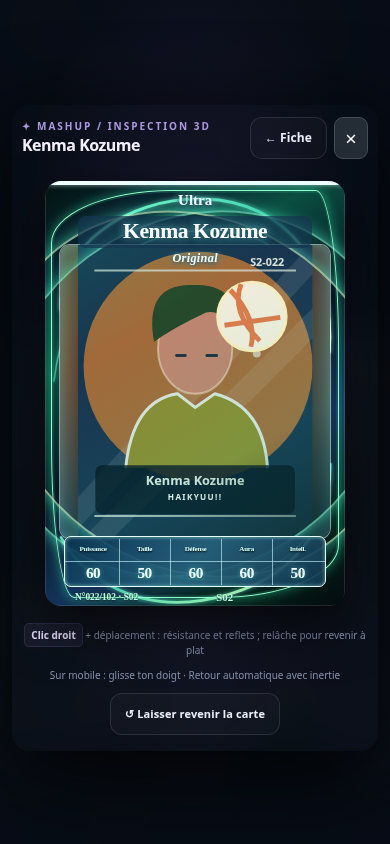
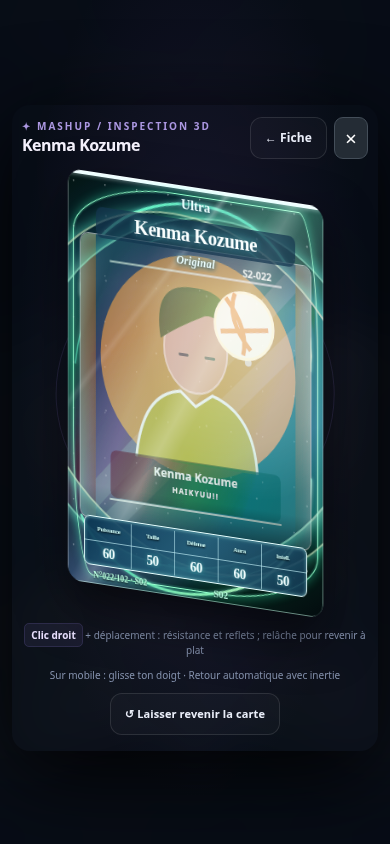
feat: enrich card shine with prismatic foil and metallic highlights

diff --git a/36-mobile-premium.css b/36-mobile-premium.css
@@ -44,3 +44,21 @@ html[data-m13-quality=eco] .tcg-card.v10-tcg .v10-foil{display:none!important}ht
 .inspect-backdrop{background:radial-gradient(ellipse at 50% 42%,#3b2a5860,transparent 64%),#070c16f5!important}.inspect-modal{border:0!important;background:transparent!important}.inspect-header{border-color:#ffffff10}.inspect-heading{font-family:inherit!important;color:#f4f1fc}.inspect-kicker{color:#ac98e2}.inspect-stage{isolation:isolate;position:relative}.inspect-stage:before{content:'';position:absolute;width:min(80%,450px);aspect-ratio:1;top:50%;left:50%;transform:translate(-50%,-50%) rotate(-25deg);border:1px solid #a28afa25;border-radius:50%;pointer-events:none;z-index:-1}.inspect-front .tcg-card .v10-foil{opacity:.3!important}.inspect-instructions{color:#8491ac}.inspect-instructions kbd{background:#a28afa14;border-color:#a28afa26}
 html[data-m13-quality=eco] .opening-fullscreen .opening-vfx-particles,html[data-m13-quality=eco] .opening-fullscreen .opening-vfx-ring{display:none!important}
 html .auth-cover{background:radial-gradient(ellipse at 50% 20%,#39284960,transparent 65%),#090d16}.auth-cover .auth-panel{background:linear-gradient(150deg,#182033,#101726);border-color:#a28afa30;box-shadow:0 30px 100px #0007;padding:34px 29px}.auth-cover .auth-logo{color:var(--m13-lime);font-size:25px;letter-spacing:-1px;display:flex;gap:11px;align-items:center}.auth-cover .auth-logo:before{content:'';display:block;width:41px;height:41px;background:url('./assets/mashup-app.svg') center/cover;border-radius:10px}.auth-cover .auth-logo{font-size:0}.auth-cover .auth-logo b{font-size:24px;letter-spacing:-1px}.auth-cover .auth-panel h2{font-family:inherit;font-size:28px;letter-spacing:-1px}.auth-cover .auth-panel p{color:#939fb8;font-size:12px;line-height:1.8}.auth-cover .auth-panel input{font-size:16px;padding:13px}.auth-cover .auth-panel .btn{min-height:49px}.auth-cover .auth-panel .auth-error{color:#ff9fba!important}.auth-cover .auth-panel a{color:#c3b2ff!important}.auth-cover .auth-panel h2:before{content:'TES CARTES. TES AMIS. TON MULTIVERS.';display:block;font-size:8px;letter-spacing:1.7px;color:#a58ee0;margin:28px 0 14px;font-weight:700}
+/* Optical finish V13.0.1. Static on grids, light follows inspection gestures. */
+.tcg-card.v10-tcg{--foil-strength:.12;--foil-saturation:1;--foil-hue:0deg;--foil-metal:#dae9f6;isolation:isolate}
+.tcg-card.v10-tcg.rare{--foil-strength:.23;--foil-metal:#a6e4ff}
+.tcg-card.v10-tcg.epic{--foil-strength:.32;--foil-metal:#d3b0ff;--foil-hue:25deg}
+.tcg-card.v10-tcg.legendary{--foil-strength:.39;--foil-metal:#ffe5a4;--foil-hue:-20deg}
+.tcg-card.v10-tcg.mythic{--foil-strength:.44;--foil-metal:#ffc3cb;--foil-hue:65deg}
+.tcg-card.v10-tcg.ultra{--foil-strength:.49;--foil-metal:#e6fcff;--foil-saturation:1.35}
+.tcg-card.v10-tcg.variant-gold{--foil-strength:.42;--foil-metal:#ffe9a7;--foil-hue:-35deg}
+.tcg-card.v10-tcg.variant-secret{--foil-strength:.48;--foil-metal:#b7ffe5;--foil-hue:95deg}
+.tcg-card.v10-tcg .v13-prismatic,.tcg-card.v10-tcg .v13-luster{position:absolute;inset:0;pointer-events:none;border-radius:inherit}
+.tcg-card.v10-tcg .v13-prismatic{z-index:6;opacity:var(--foil-strength);mix-blend-mode:color-dodge;background:repeating-linear-gradient(112deg,#91ecff12 0%,#bcb0ff8c 8%,#ffacd18c 16%,#ffe1a88c 24%,#b1ffd580 32%,#91ecff12 40%);background-size:220% 220%;background-position:var(--m13-x) var(--m13-y);filter:hue-rotate(var(--foil-hue)) saturate(var(--foil-saturation));mask-image:linear-gradient(180deg,transparent 12%,#000 26%,#000 76%,transparent 86%);-webkit-mask-image:linear-gradient(180deg,transparent 12%,#000 26%,#000 76%,transparent 86%)}
+.tcg-card.v10-tcg .v13-luster{z-index:8;opacity:.45;background:linear-gradient(128deg,transparent 18%,#ffffff08 26%,#ffffff72 27%,#ffffff08 28%,transparent 37%,transparent 63%,#ffffff30 64%,transparent 66%),radial-gradient(ellipse at var(--m13-x) var(--m13-y),#ffffff2e,transparent 48%);mix-blend-mode:screen;box-shadow:inset 1px 1px 0 #fff9,inset -1px -1px 0 var(--foil-metal);mask-image:linear-gradient(180deg,#000 3%,#0006 25%,#0006 72%,#000 96%);-webkit-mask-image:linear-gradient(180deg,#000 3%,#0006 25%,#0006 72%,#000 96%)}
+.tcg-card.v10-tcg.variant-gold .v13-prismatic{background:repeating-linear-gradient(115deg,#9b631700 0%,#f0b95b80 12%,#fff2becc 20%,#e8ae4b80 28%,#9b631700 40%);background-size:200% 200%;filter:none}
+.tcg-card.v10-tcg.ultra .v13-luster,.tcg-card.v10-tcg.variant-secret .v13-luster{background-image:radial-gradient(circle at 18% 25%,#fff 0 .5px,transparent 1.2px),radial-gradient(circle at 76% 65%,#fff 0 .6px,transparent 1.5px),linear-gradient(128deg,transparent 20%,#ffffff08 29%,#ffffff99 30%,#ffffff08 31%,transparent 40%);background-size:37px 47px,59px 67px,100% 100%}
+.tcg-card.v10-tcg.m13-card-active .v10-foil,.inspect-front .tcg-card.v10-tcg .v10-foil,.opening-top-card.revealed .tcg-card.v10-tcg .v10-foil{opacity:.5!important;background:radial-gradient(ellipse at var(--m13-x) var(--m13-y),#ffffffa0,transparent 43%),linear-gradient(120deg,transparent 28%,#fff3 45%,#fff8 49%,#fff3 53%,transparent 70%)!important}
+.inspect-front .tcg-card.v10-tcg .v13-prismatic{opacity:calc(var(--foil-strength) + .12)}
+html[data-m13-quality=eco] .tcg-card.v10-tcg .v13-prismatic{display:none}html[data-m13-quality=eco] .tcg-card.v10-tcg .v13-luster{opacity:.25;mix-blend-mode:normal;background:linear-gradient(128deg,#ffffff12,transparent 40%);box-shadow:inset 1px 1px #ffffff50}
+@media(prefers-reduced-motion:reduce){.tcg-card.v10-tcg .v13-prismatic{display:none}.tcg-card.v10-tcg .v13-luster{opacity:.25}}

diff --git a/index.html b/index.html
@@ -719,7 +719,7 @@
   <link rel="icon" href="./assets/mashup-app.svg" type="image/svg+xml">
   <link rel="apple-touch-icon" href="./assets/mashup-app-180.png">
   <link rel="manifest" href="./manifest.webmanifest">
-  <link rel="stylesheet" href="./36-mobile-premium.css?v=13.0.0">
+  <link rel="stylesheet" href="./36-mobile-premium.css?v=13.0.1">
 </head>
 <body>
   <div class="ambient ambient-a"></div><div class="ambient ambient-b"></div>
@@ -1061,7 +1061,7 @@
 import { createClient } from 'https://cdn.jsdelivr.net/npm/@supabase/supabase-js@2.76.1/+esm';
 import { createMobilePresentation, homeMarkup } from './35-mobile-premium.js?v=13.0.0';
 import { createGamesUI } from './04-games-ui.js?v=13.0.0';
-import { renderMashupV10Card } from './06-v10-cards.js?v=11.1';
+import { renderMashupV10Card } from './06-v10-cards.js?v=13.0.1';
 import { createDevelopmentJournal } from './10-development-journal.js?v=13.0.0';
 import { startMashupV12Performance } from './32-v12-performance.js?v=12.0.0';
 import { createBoosterRevealFX } from './12-booster-reveal.js?v=13.0.0';

diff --git a/06-v10-cards.js b/06-v10-cards.js
@@ -44,6 +44,6 @@ export function renderMashupV10Card(card,options={},context){
     '<div class="v10-universe" title="'+family+'">'+family+'</div>'+
     '<div class="v10-stats">'+stats+'</div>'+
     '<div class="v10-series"><span class="v10-serial">'+serial+'</span><span class="v10-series-badge">'+esc(series)+'</span></div>'+
-    '<span class="v10-special-detail" aria-hidden="true"></span><span class="v10-foil" aria-hidden="true"></span>'+
+    '<span class="v10-special-detail" aria-hidden="true"></span><span class="v13-prismatic" aria-hidden="true"></span><span class="v13-luster" aria-hidden="true"></span><span class="v10-foil" aria-hidden="true"></span>'+
     '</div>';
 }

diff --git a/docs/mobile/README.md b/docs/mobile/README.md
@@ -26,7 +26,7 @@ Voir [evidence.txt](evidence.txt).
 - Aucun débordement horizontal sur l'accueil aux largeurs 320,390,768,1440 ; collection vérifiée à 390. Aucune erreur JavaScript durant ces parcours.
 - Captures : [mobile](preview-mobile.png), [desktop](preview-desktop.png), [menu/login](preview-login.png), [inspection](preview-card.png), [booster](preview-booster.png). Données fictives, cartes publiques du catalogue de référence, aucune image de joueur.
 
-Les tests de phase 0 ont évolué explicitement : la vérification d'intégrité conserve les empreintes des fichiers inchangés et vérifie la baseline historique pour les six fichiers applicatifs modifiés ; le test de reproduction R03 est devenu un test d'acceptation du correctif. Les anciens rapports de phase 0 restent un état historique, pas une preuve de ce build.
+Les tests de phase 0 ont évolué explicitement : la vérification d'intégrité conserve les empreintes des fichiers inchangés et vérifie la baseline historique pour les fichiers applicatifs modifiés ; le test de reproduction R03 est devenu un test d'acceptation du correctif. Les anciens rapports de phase 0 restent un état historique, pas une preuve de ce build.
 
 ## Rejouer
 
@@ -45,3 +45,9 @@ Chromium est attendu à /usr/bin/chromium. Le serveur de test écoute uniquement
 Aucune mesure FPS/mémoire sur téléphone physique et aucun test Safari réel. Le navigateur Chromium émule les dimensions/tactile ; il ne valide pas les limitations de WebKit/iOS. Aucun achat, tirage, email ou compte réel utilisé ; auth et économie de production non certifiées. Vérifier préproduction isolée, connexion/récupération réelle de test, marché/PvP et interruptions réseau avant publication. Les garde-fous de phase 0 sur sauvegardes restent applicables.
 
 Tous les fichiers backend et les données de catalogue sont inchangés. Le changement de version 13.0.0 ne sera visible sur le site que si cette branche est fusionnée et publiée. Retour arrière : remettre ensemble HTML, CSS/JS, icônes et manifeste de version au build précédent ; aucune restauration de base nécessaire pour les modifications de ce lot. Ne pas effacer le stockage des sessions ou les données des joueurs.
+
+## Finitions renforcées — suivi brillance
+
+Ajout de deux couches décoratives masquées : irisation prismatique et vernis spéculaire. Intensité progressive de commune à Ultra ; Gold métallique dorée ; Secrètes avec micro-éclats. Le masque atténue les couches devant les zones de texte. Les couches sont purement visuelles, non interactives et aria-hidden ; ni illustration ni donnée de carte ne sont modifiées. En mode économique/animations réduites, la couche prismatique est désactivée et le vernis simplifié.
+
+La capture d’inspection montre maintenant le mode spectaculaire pendant un geste d’inclinaison. Le test navigateur vérifie la présence de la finition et le déplacement de la lumière. Les 22 tests Node et le parcours Chromium simulé passent ; aucune mesure sur appareil physique ni publication.
